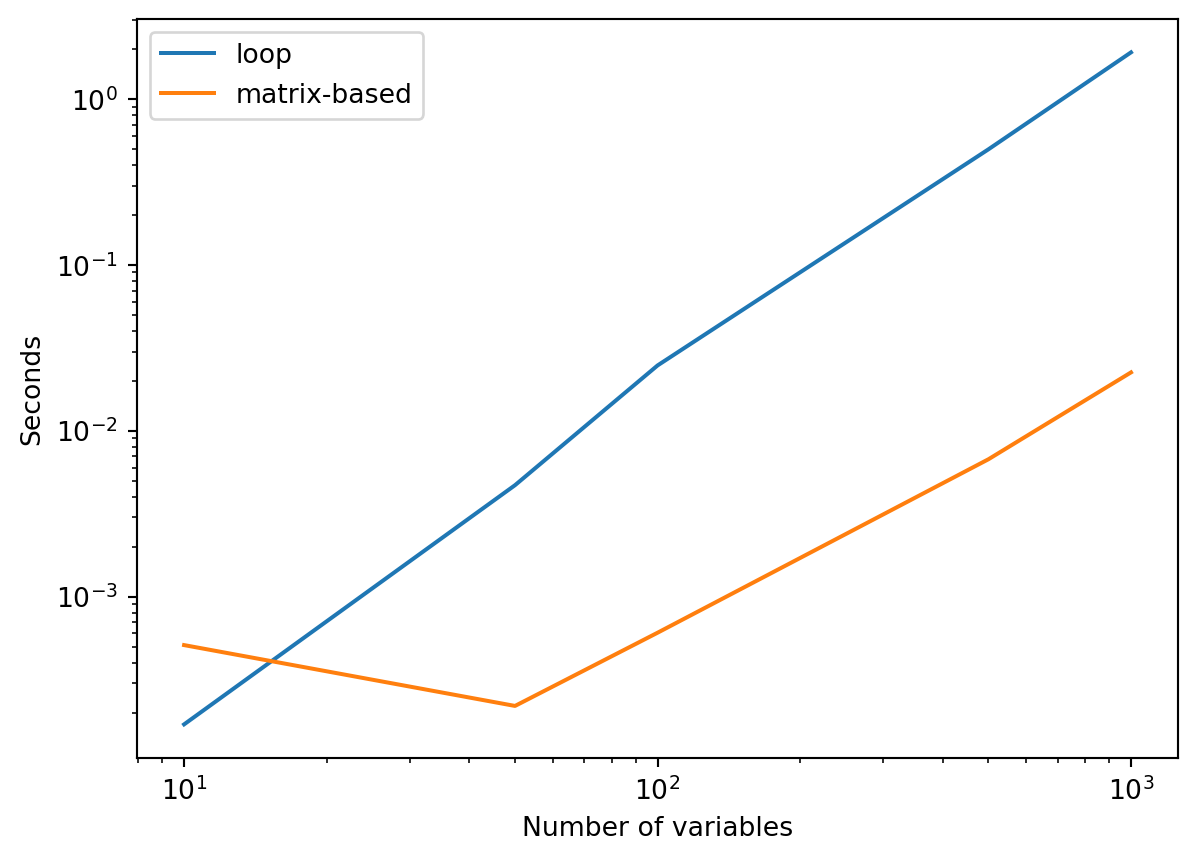
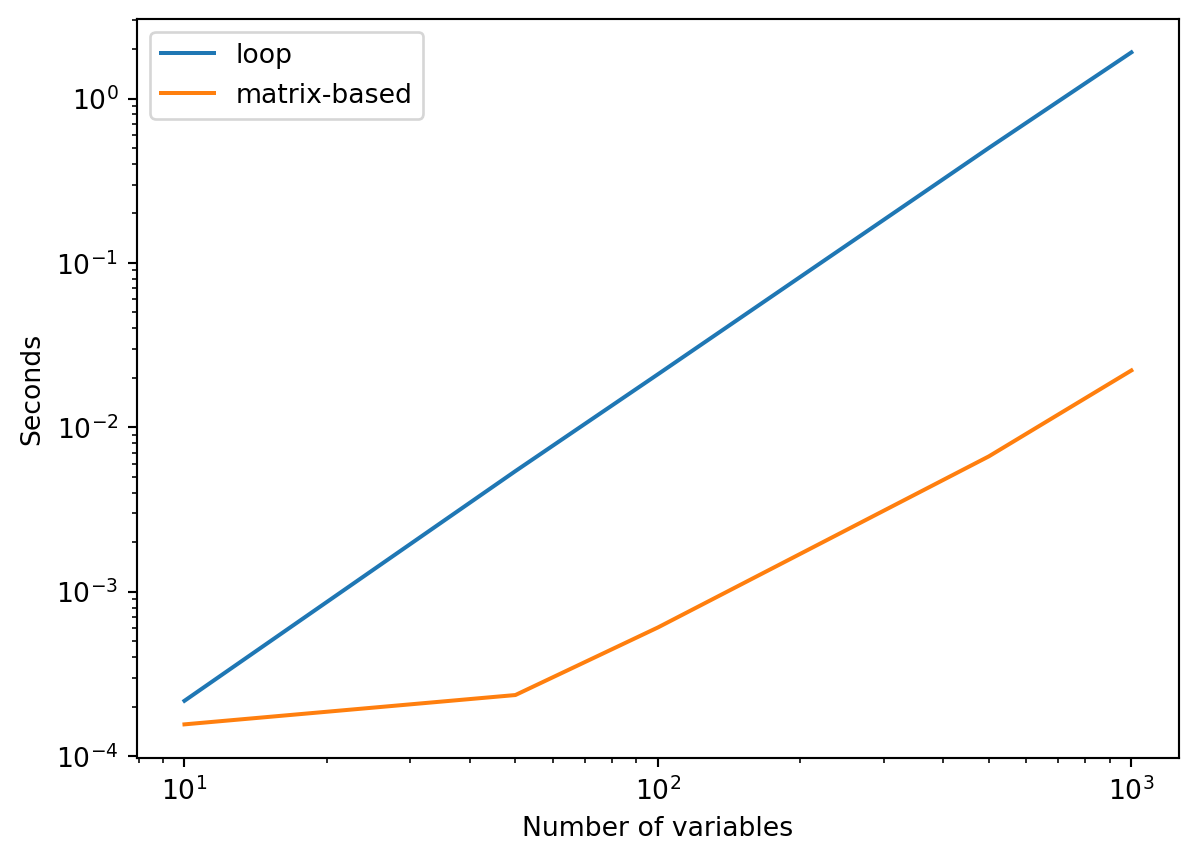
now preview/featured figure in masked-array post is generated via script that uses data generated by qmd code run. So do quarto render within post folder then run script there, then render main, then push

diff --git a/docs/posts/masked-arrays/index.html b/docs/posts/masked-arrays/index.html
@@ -352,7 +352,7 @@ Person 8       1       1       1       0</code></pre>
 <span id="cb12-6"><a href="#cb12-6" aria-hidden="true" tabindex="-1"></a>toc <span class="op">=</span> perf_counter()</span>
 <span id="cb12-7"><a href="#cb12-7" aria-hidden="true" tabindex="-1"></a><span class="bu">print</span>(<span class="ss">f"Computing all pairwise percentage agreements took </span><span class="sc">{</span>toc<span class="op">-</span>tic<span class="sc">:0.4f}</span><span class="ss"> seconds."</span>)</span></code><button title="Copy to Clipboard" class="code-copy-button"><i class="bi"></i></button></pre></div>
 <div class="cell-output cell-output-stdout">
-<pre><code>Computing all pairwise percentage agreements took 1.8262 seconds.</code></pre>
+<pre><code>Computing all pairwise percentage agreements took 1.8570 seconds.</code></pre>
 </div>
 </div>
 <p>This may not seem so bad. But consider that</p>
@@ -463,28 +463,28 @@ new = \lvert old-1 \rvert
   <tbody>
     <tr>
       <th>10</th>
-      <td>0.000170</td>
-      <td>0.000510</td>
+      <td>0.000217</td>
+      <td>0.000156</td>
     </tr>
     <tr>
       <th>50</th>
-      <td>0.004695</td>
-      <td>0.000219</td>
+      <td>0.005415</td>
+      <td>0.000235</td>
     </tr>
     <tr>
       <th>100</th>
-      <td>0.024745</td>
-      <td>0.000605</td>
+      <td>0.021027</td>
+      <td>0.000606</td>
     </tr>
     <tr>
       <th>500</th>
-      <td>0.497486</td>
-      <td>0.006731</td>
+      <td>0.500720</td>
+      <td>0.006657</td>
     </tr>
     <tr>
       <th>1000</th>
-      <td>1.910628</td>
-      <td>0.022473</td>
+      <td>1.909704</td>
+      <td>0.022183</td>
     </tr>
   </tbody>
 </table>
@@ -829,8 +829,8 @@ Xb has data type int64.</code></pre>
 <span id="cb42-12"><a href="#cb42-12" aria-hidden="true" tabindex="-1"></a><span class="bu">print</span>(<span class="ss">f"np.dot(Xa.transpose(), Xa) took </span><span class="sc">{</span>sec_order_1<span class="sc">}</span><span class="ss"> seconds."</span>)</span>
 <span id="cb42-13"><a href="#cb42-13" aria-hidden="true" tabindex="-1"></a><span class="bu">print</span>(<span class="ss">f"np.dot(Xa, Xa.transpose()) took </span><span class="sc">{</span>sec_order_2<span class="sc">}</span><span class="ss"> seconds."</span>)</span></code><button title="Copy to Clipboard" class="code-copy-button"><i class="bi"></i></button></pre></div>
 <div class="cell-output cell-output-stdout">
-<pre><code>np.dot(Xa.transpose(), Xa) took 0.009303514758001256 seconds.
-np.dot(Xa, Xa.transpose()) took 0.008159338511000896 seconds.</code></pre>
+<pre><code>np.dot(Xa.transpose(), Xa) took 0.00926350842500142 seconds.
+np.dot(Xa, Xa.transpose()) took 0.008056458486000338 seconds.</code></pre>
 </div>
 </div>
 <p>A reader that is familiar with matrix computation will notice that <code>np.dot(Xa, Xa.transpose())</code> does not make sense for our data. The <code>X</code> used in this blog post has samples along rows and variables along columns. So <code>np.dot(Xa, Xa.transpose())</code> would give comparisons of samples not variables. If we had constructed <code>X</code> so that rows and columns were opposite then <code>np.dot(Xa, Xa.transpose())</code> would give us the desired comparisons of variables.</p>
@@ -849,8 +849,8 @@ np.dot(Xa, Xa.transpose()) took 0.008159338511000896 seconds.</code></pre>
 <span id="cb44-10"><a href="#cb44-10" aria-hidden="true" tabindex="-1"></a><span class="bu">print</span>(<span class="ss">f"np.dot(Xb.transpose(), Xb) took </span><span class="sc">{</span>sec_order_1<span class="sc">}</span><span class="ss"> seconds."</span>)</span>
 <span id="cb44-11"><a href="#cb44-11" aria-hidden="true" tabindex="-1"></a><span class="bu">print</span>(<span class="ss">f"np.dot(Xb, Xb.transpose()) took </span><span class="sc">{</span>sec_order_2<span class="sc">}</span><span class="ss"> seconds."</span>)</span></code><button title="Copy to Clipboard" class="code-copy-button"><i class="bi"></i></button></pre></div>
 <div class="cell-output cell-output-stdout">
-<pre><code>np.dot(Xb.transpose(), Xb) took 1.0335188447400288 seconds.
-np.dot(Xb, Xb.transpose()) took 0.4774828857199827 seconds.</code></pre>
+<pre><code>np.dot(Xb.transpose(), Xb) took 1.0244241412799966 seconds.
+np.dot(Xb, Xb.transpose()) took 0.4779843139599689 seconds.</code></pre>
 </div>
 </div>
 <p>The most striking thing is that, regardless or operation order, computation of <code>int64</code> data is much slower!</p>
